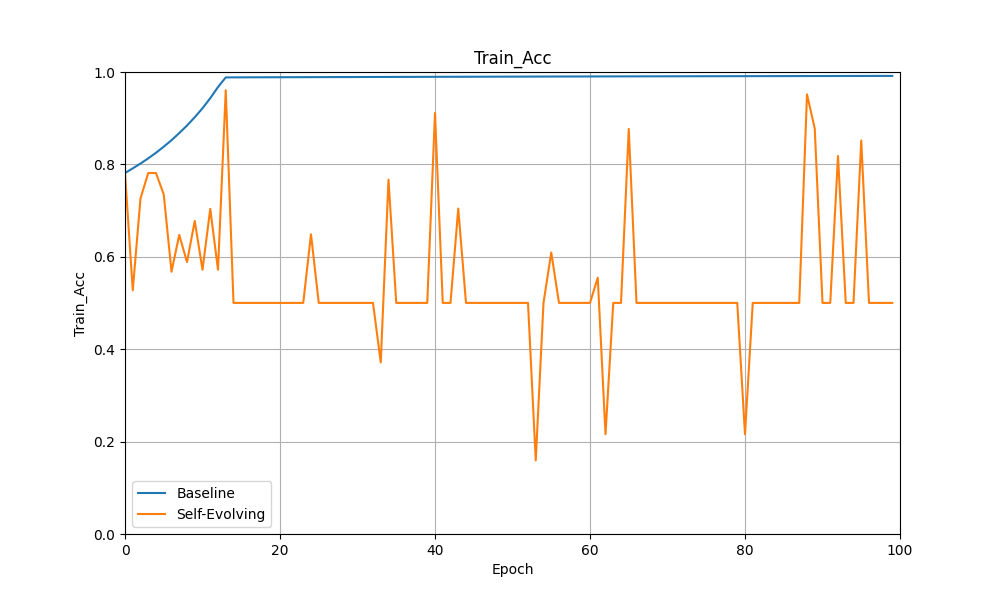
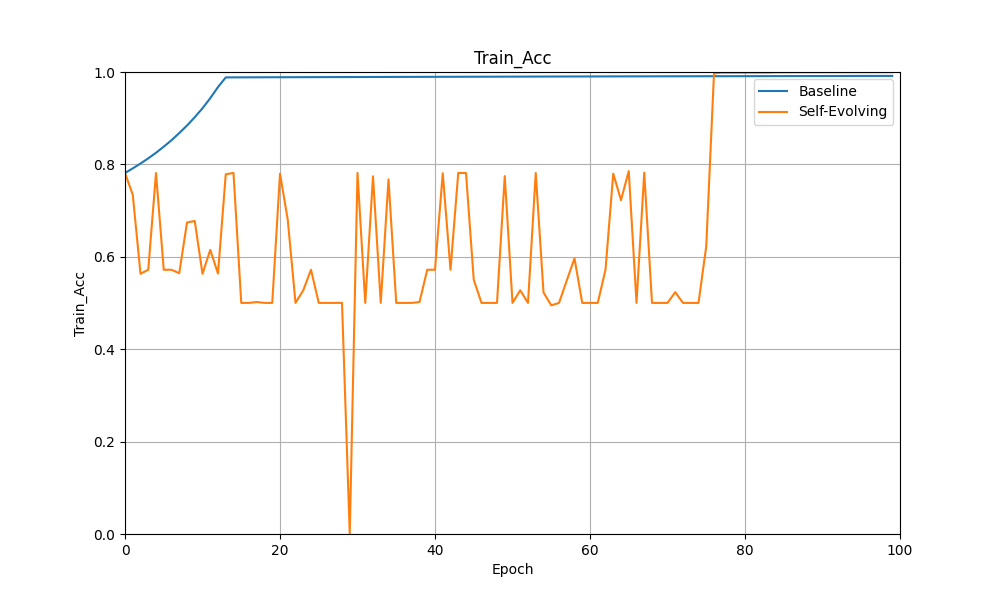
update

diff --git a/selfevolve.py b/selfevolve.py
@@ -76,7 +76,8 @@ def plot_result(loss_list,title,dir_path):
     plt.xlabel('Epoch')
     plt.ylabel(title)
     plt.xlim(0, 100)
-    plt.ylim(0, 1)
+    if 'acc' in title.lower():
+        plt.ylim(0, 1)
     plt.legend()
     plt.grid(True)
     plt.savefig(dir_path+f'{title}.png')
@@ -91,8 +92,8 @@ def run_training(epoch_num,threshold,model,optimizer,criterion,X_train,y_train,X
     val_accuracies = []
     
     train_loss,train_accuracy,val_loss,val_accuracy = eval(model,threshold,criterion,X_train,y_train,X_val,y_val)
-    prev_accuracy = train_accuracy
-    pred_val_accuracy = val_accuracy
+    best_train_accuracy = train_accuracy
+    best_val_accuracy = val_accuracy
     best_model_wights = copy.deepcopy(model.state_dict())
     
     print(f'Inital state, Train Loss: {train_loss:.4f}, Train Accuracy: {train_accuracy:.4f}, Val Loss: {val_loss:.4f}, Val Accuracy: {val_accuracy:.4f}')
@@ -124,12 +125,12 @@ def run_training(epoch_num,threshold,model,optimizer,criterion,X_train,y_train,X
         train_accuracies.append(train_accuracy)
         val_accuracies.append(val_accuracy)
     
-        if val_accuracy > pred_val_accuracy:
+        if val_accuracy > best_val_accuracy:
             best_model_wights = copy.deepcopy(model.state_dict())
-            pred_val_accuracy = val_accuracy
+            best_val_accuracy = val_accuracy
 
         if (epoch + 1) % 10 == 0:
-            print(f'Epoch [{epoch+1}/{epoch_num}], Train Loss: {train_loss:.4f}, Train Accuracy: {train_accuracy:.4f}, Val Loss: {val_loss:.4f}, Val Accuracy: {val_accuracy:.4f}')
+            print(f'Epoch [{epoch+1}/{epoch_num}], Train Loss: {train_loss:.4f}, Train Accuracy: {train_accuracy:.4f}, Val Loss: {val_loss:.4f}, Val Accuracy: {val_accuracy:.4f}, Best Val Accuracy: {best_val_accuracy:.4f}')
 
 
     model = MLP()
@@ -171,8 +172,8 @@ def run_selfevolve(epoch_num,threshold,model,criterion,X_train,y_train,X_val,y_v
     val_accuracies = []
     
     train_loss,train_accuracy,val_loss,val_accuracy = eval(model,threshold,criterion,X_train,y_train,X_val,y_val)
-    prev_accuracy = train_accuracy
-    pred_val_accuracy = val_accuracy
+    best_train_accuracy = train_accuracy
+    best_val_accuracy = val_accuracy
     best_model_wights = copy.deepcopy(model.state_dict())
         
     weights = model.get_weights()
@@ -190,21 +191,21 @@ def run_selfevolve(epoch_num,threshold,model,criterion,X_train,y_train,X_val,y_v
         
         train_loss,train_accuracy,val_loss,val_accuracy = eval(model,threshold,criterion,X_train,y_train,X_val,y_val)
         if (epoch + 1) % 10 == 0:
-            print(f'Epoch [{epoch+1}/{epoch_num}], Train Loss: {train_loss:.4f}, Train Accuracy: {train_accuracy:.4f}, Val Loss: {val_loss:.4f}, Val Accuracy: {val_accuracy:.4f}')
+            print(f'Epoch [{epoch+1}/{epoch_num}], Train Loss: {train_loss:.4f}, Train Accuracy: {train_accuracy:.4f}, Val Loss: {val_loss:.4f}, Val Accuracy: {val_accuracy:.4f}, Best Val Accuracy: {best_val_accuracy:.4f}')
 
         train_losses.append(train_loss)
         val_losses.append(val_loss)
         train_accuracies.append(train_accuracy)
         val_accuracies.append(val_accuracy)
         
-        if train_accuracy > prev_accuracy:
+        if train_accuracy > best_train_accuracy:
             prompt += f"Previous your output: {gpt4_output}\n"
             prompt += f"The train loss was {train_loss:.4f} and train accuracy was {train_accuracy:.4f}. Considering the previous inputs and your outputs, please optimize the weights to reduce the learning loss to 0 and improve accuracy to 1.0, then output the model weights in JSON format. The magnitude of the weight changes is up to you.\n"
-            prev_accuracy = train_accuracy
+            best_train_accuracy = train_accuracy
         
-        if val_accuracy > pred_val_accuracy:
+        if val_accuracy > best_val_accuracy:
             best_model_wights = copy.deepcopy(model.state_dict())
-            pred_val_accuracy = val_accuracy
+            best_val_accuracy = val_accuracy
         
         try:
             gpt4_output = get_gpt4_response(prompt)
